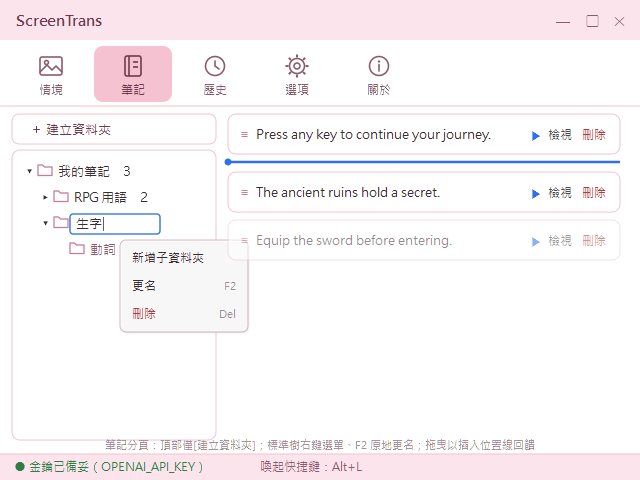
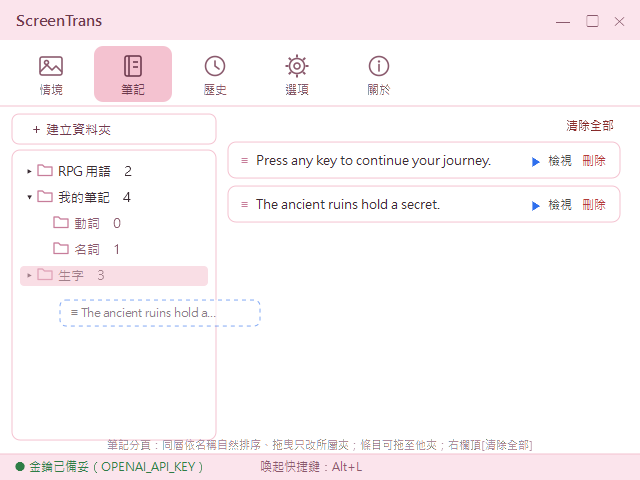
feat(present): 筆記樹依名稱自動排序（檔案總管式）並增筆記清除全部 (#43)
* docs(design): #42 筆記樹同層名稱自然排序（檔案總管式）/條目跨夾拖曳敘明/右欄清除全部（intTest#27）

* feat(present): 筆記樹同層名稱自然排序＋右欄清除全部；修拖曳劫持（按壓殘留誤移整夾）（版號 0.13.0）

* docs(design): #42 儲存/選型契約與 UI 對齊——資料夾恆名稱自然排序（無手動夾序）、ClearEntries（Codex 審查回修）

---------

Changed region(s): [[0.3438, 0.2188, 0.9688, 0.5312], [0.0312, 0.3438, 0.4062, 0.7188], [0.1562, 0.9062, 0.8438, 0.9375]]

diff --git a/sysScreenTrans/modPresent/NotesPage.xaml b/sysScreenTrans/modPresent/NotesPage.xaml
@@ -20,14 +20,22 @@
       </Border>
     </Grid>
 
-    <!-- 右：選取夾之條目 -->
+    <!-- 右：選取夾之條目（右欄頂[清除全部]，比照歷史分頁；Issue #42） -->
     <Grid Grid.Column="1" Margin="4,8,10,10">
-      <ScrollViewer VerticalScrollBarVisibility="Auto" Padding="8,0,4,0">
-        <StackPanel x:Name="EntryPanel"/>
-      </ScrollViewer>
-      <TextBlock x:Name="EmptyHint" Text="此資料夾尚無筆記。在結果或歷史按「加入我的筆記」即可收藏；左側資料夾可右鍵管理、拖曳移動。"
-                 Foreground="#9A6A82" FontSize="13" TextWrapping="Wrap" MaxWidth="320"
-                 TextAlignment="Center" HorizontalAlignment="Center" VerticalAlignment="Center" Visibility="Collapsed"/>
+      <Grid.RowDefinitions>
+        <RowDefinition Height="Auto"/>
+        <RowDefinition Height="*"/>
+      </Grid.RowDefinitions>
+      <Button x:Name="ClearEntriesBtn" Grid.Row="0" Content="清除全部" HorizontalAlignment="Right"
+              Foreground="#8A2B2B" Style="{StaticResource GhostButton}" Margin="0,0,0,6"/>
+      <Grid Grid.Row="1">
+        <ScrollViewer VerticalScrollBarVisibility="Auto" Padding="8,0,4,0">
+          <StackPanel x:Name="EntryPanel"/>
+        </ScrollViewer>
+        <TextBlock x:Name="EmptyHint" Text="此資料夾尚無筆記。在結果或歷史按「加入我的筆記」即可收藏；左側資料夾可右鍵管理、拖曳移動。"
+                   Foreground="#9A6A82" FontSize="13" TextWrapping="Wrap" MaxWidth="320"
+                   TextAlignment="Center" HorizontalAlignment="Center" VerticalAlignment="Center" Visibility="Collapsed"/>
+      </Grid>
     </Grid>
   </Grid>
 </UserControl>

diff --git a/sysScreenTrans/modQuery/NotesStore.cs b/sysScreenTrans/modQuery/NotesStore.cs
@@ -152,6 +152,61 @@ public sealed class NotesStore
         }
     }
 
+    /// <summary>
+    /// 檔案總管式**自然排序**比較（Issue #42，等效 `StrCmpLogicalW` 核心行為）：
+    /// 連續數字段依**數值**比較（「新資料夾 (2)」＜「新資料夾 (10)」），其餘字元依目前文化、不分大小寫。
+    /// </summary>
+    public static int NaturalCompare(string a, string b)
+    {
+        int i = 0, j = 0;
+        while (i < a.Length && j < b.Length)
+        {
+            if (char.IsAsciiDigit(a[i]) && char.IsAsciiDigit(b[j]))
+            {
+                int si = i, sj = j;
+                while (i < a.Length && char.IsAsciiDigit(a[i])) { i++; }
+                while (j < b.Length && char.IsAsciiDigit(b[j])) { j++; }
+                var na = a[si..i].TrimStart('0');
+                var nb = b[sj..j].TrimStart('0');
+                if (na.Length != nb.Length)
+                {
+                    return na.Length - nb.Length; // 位數多者數值大
+                }
+                var c = string.CompareOrdinal(na, nb);
+                if (c != 0)
+                {
+                    return c;
+                }
+            }
+            else
+            {
+                var c = string.Compare(a[i].ToString(), b[j].ToString(), StringComparison.CurrentCultureIgnoreCase);
+                if (c != 0)
+                {
+                    return c;
+                }
+                i++;
+                j++;
+            }
+        }
+        return (a.Length - i) - (b.Length - j); // 前綴相同者短在前
+    }
+
+    /// <summary>全樹**同層依名稱自然排序**（檔案總管慣例，Issue #42）：拖曳只改歸屬、順序一律由名稱決定。</summary>
+    public static void SortFolders(NotesData d) => SortSiblings(d.Folders);
+
+    private static void SortSiblings(List<NoteFolder> list)
+    {
+        list.Sort((x, y) => NaturalCompare(x.Name, y.Name));
+        foreach (var f in list)
+        {
+            SortSiblings(f.Folders);
+        }
+    }
+
+    /// <summary>清空指定資料夾之全部條目（不含子資料夾；右欄[清除全部]，Issue #42）。找不到夾即無為。</summary>
+    public static void ClearEntries(NotesData d, string folderId) => FindFolder(d, folderId)?.Entries.Clear();
+
     /// <summary>新增頂層資料夾。</summary>
     public static NoteFolder AddFolder(NotesData d, string name)
     {

diff --git a/sysScreenTrans.Tests/NotesStoreTests.cs b/sysScreenTrans.Tests/NotesStoreTests.cs
@@ -272,6 +272,55 @@ public class NotesStoreTests
     }
 
     [Fact]
+    public void NaturalCompare_DigitRuns_CompareNumerically()
+    {
+        Assert.True(NotesStore.NaturalCompare("新資料夾 (2)", "新資料夾 (10)") < 0);
+        Assert.True(NotesStore.NaturalCompare("a10b", "a2b") > 0);
+        Assert.Equal(0, NotesStore.NaturalCompare("f01", "f1")); // 前導零視同數值相等
+    }
+
+    [Fact]
+    public void NaturalCompare_Letters_CaseInsensitive_PrefixShorterFirst()
+    {
+        Assert.True(NotesStore.NaturalCompare("apple", "Banana") < 0);
+        Assert.True(NotesStore.NaturalCompare("ab", "abc") < 0);
+        Assert.Equal(0, NotesStore.NaturalCompare("Same", "same"));
+    }
+
+    [Fact]
+    public void SortFolders_SortsSiblingsRecursively_ByNaturalName()
+    {
+        var d = new NotesData();
+        var b = NotesStore.AddFolder(d, "B");
+        NotesStore.AddFolder(d, "A10");
+        NotesStore.AddFolder(d, "A2");
+        NotesStore.AddSubFolder(d, b.Id, "z");
+        NotesStore.AddSubFolder(d, b.Id, "k");
+
+        NotesStore.SortFolders(d);
+
+        Assert.Equal(new[] { "A2", "A10", "B" }, d.Folders.Select(f => f.Name));
+        Assert.Equal(new[] { "k", "z" }, b.Folders.Select(f => f.Name));
+    }
+
+    [Fact]
+    public void ClearEntries_OnlyTargetFolder_UnknownIdNoop()
+    {
+        var d = new NotesData();
+        var a = NotesStore.AddFolder(d, "A");
+        var b = NotesStore.AddFolder(d, "B");
+        NotesStore.AddTo(d, NoteEntry.From(new QueryResult("one", "w", "一"), DateTimeOffset.UtcNow)); // 落第一個頂層夾（A）
+        b.Entries.Insert(0, NoteEntry.From(new QueryResult("two", "t", "二"), DateTimeOffset.UtcNow));
+
+        NotesStore.ClearEntries(d, a.Id);
+        Assert.Empty(a.Entries);
+        Assert.Single(b.Entries);
+
+        NotesStore.ClearEntries(d, "no-such-id"); // 無為、不擲例外
+        Assert.Single(b.Entries);
+    }
+
+    [Fact]
     public void Load_LegacyFlatJson_UpgradesToTree_NoDataLoss()
     {
         // 舊平面 notes.json（NoteFolder 無 Folders 子夾鍵）

diff --git a/sysScreenTrans/modPresent/NotesPage.xaml.cs b/sysScreenTrans/modPresent/NotesPage.xaml.cs
@@ -82,7 +82,9 @@ public partial class NotesPage : UserControl
         _data = _store.LoadEnsured();
 
         NewFolderBtn.Click += (_, _) => CreateFolder(parent: null); // 一律建頂層；子資料夾走節點右鍵選單（檔案總管慣例）
+        ClearEntriesBtn.Click += (_, _) => OnClearEntries();
         FolderTree.SelectedItemChanged += OnFolderSelected;
+        FolderTree.PreviewMouseLeftButtonUp += (_, _) => _pressItem = null; // 放開即清，防殘留按壓被後續拖曳劫持
         FolderTree.KeyDown += OnTreeKeyDown;                // F2＝更名、Del＝刪除（檔案總管慣例）
         FolderTree.Drop += OnTreeBackgroundDrop;            // 拖到空白處 → 移到頂層
         FolderTree.DragOver += (_, e) => { e.Effects = DragDropEffects.Move; e.Handled = true; };
@@ -108,6 +110,7 @@ public partial class NotesPage : UserControl
 
     private void BuildTree()
     {
+        NotesStore.SortFolders(_data); // 同層一律依名稱自然排序（檔案總管慣例，Issue #42）
         var keepId = Selected?.Id;
         _dropHighlight = null;
         FolderTree.Items.Clear();
@@ -220,6 +223,7 @@ public partial class NotesPage : UserControl
         var f = Selected;
         bool any = f is not null && f.Entries.Count > 0;
         EmptyHint.Visibility = any ? Visibility.Collapsed : Visibility.Visible;
+        ClearEntriesBtn.IsEnabled = any;
         if (f is null)
         {
             return;
@@ -230,7 +234,29 @@ public partial class NotesPage : UserControl
         }
     }
 
-    private void Persist() { _store.Save(_data); BuildTree(); }
+    private void Persist()
+    {
+        NotesStore.SortFolders(_data); // 存檔順序與顯示一致（名稱序）
+        _store.Save(_data);
+        BuildTree();
+    }
+
+    /// <summary>右欄[清除全部]：清空選取夾內全部條目（確認對話載明夾名筆數；子夾不動）。</summary>
+    private void OnClearEntries()
+    {
+        var f = Selected;
+        if (f is null || f.Entries.Count == 0)
+        {
+            return;
+        }
+        if (MessageBox.Show($"清除資料夾「{f.Name}」內全部 {f.Entries.Count} 筆筆記？此動作無法復原（子資料夾不受影響）。",
+                "清除全部", MessageBoxButton.OKCancel, MessageBoxImage.Warning) != MessageBoxResult.OK)
+        {
+            return;
+        }
+        NotesStore.ClearEntries(_data, f.Id);
+        Persist();
+    }
 
     // ---- 資料夾操作（頂部[建立資料夾]＋右鍵選單／F2／Del，原地更名如檔案總管） ----
 
@@ -244,8 +270,7 @@ public partial class NotesPage : UserControl
         {
             return;
         }
-        _store.Save(_data);
-        BuildTree();
+        Persist(); // 依名稱歸位後入原地更名
         var item = FindItem(FolderTree.Items, created.Id);
         if (item is not null)
         {
@@ -274,7 +299,8 @@ public partial class NotesPage : UserControl
             if (save && !string.IsNullOrWhiteSpace(box.Text) && box.Text.Trim() != f.Name)
             {
                 NotesStore.RenameFolder(_data, f.Id, box.Text);
-                _store.Save(_data);
+                Persist(); // 更名後依名稱歸位
+                return;
             }
             BuildTree(); // 取消或未變更亦重建，還原一般節點頭
         }
@@ -350,7 +376,8 @@ public partial class NotesPage : UserControl
 
     private void OnItemMouseMove(object sender, MouseEventArgs e)
     {
-        if (_pressItem is null || e.LeftButton != MouseButtonState.Pressed)
+        // 僅由被按壓的節點本身啟動拖曳：防止殘留 _pressItem 在滑鼠（因其他拖曳）持鍵掃過樹時誤啟動資料夾拖曳
+        if (_pressItem is null || !ReferenceEquals(sender, _pressItem) || e.LeftButton != MouseButtonState.Pressed)
         {
             return;
         }
@@ -433,6 +460,7 @@ public partial class NotesPage : UserControl
             ToolTip = "拖曳排序／拖到左側資料夾移動",
         };
         handle.PreviewMouseLeftButtonDown += (_, ev) => { _entryDrag = entry; _entryStart = ev.GetPosition(null); };
+        handle.PreviewMouseLeftButtonUp += (_, _) => _entryDrag = null; // 放開即清（對稱防殘留）
         handle.PreviewMouseMove += OnEntryHandleMove;
         Grid.SetColumn(handle, 0);
         grid.Children.Add(handle);

diff --git a/CHANGELOG.md b/CHANGELOG.md
@@ -2,6 +2,25 @@
 
 版本依語意化版號（SemVer）。版號於 PR merge 當下釘選。
 
+## [0.13.0] - 2026-07-05
+
+Issue #42 增量：筆記樹**完全檔案總管化**（名稱自動排序）並新增筆記「清除全部」。
+
+### 新增
+- **筆記右欄「清除全部」**（比照歷史分頁位置/配色）：清除**選取資料夾**內全部條目（子資料夾不動），
+  確認對話載明夾名與筆數；空夾停用。
+
+### 修正
+- **資料夾樹同層一律依名稱自動排序**（檔案總管式**自然排序**：數字段依數值，「新資料夾 (2)」＜「新資料夾 (10)」）；
+  新增／更名／拖曳移動後即歸位；**拖曳語意＝只改所屬父夾**、同層無手動排序。
+- 條目**跨夾拖曳改歸屬**（拖至左樹任一資料夾）沿用既有能力、實測確認並納入 intTest#27。
+- **修拖曳劫持缺陷**（§5 實測發現）：點選過樹節點後按壓狀態未清，之後任何持鍵掃過樹的操作（如自右欄
+  拖條目入樹）會誤啟動「拖曳上次點過的資料夾」而把整夾移走；改**放開即清**＋**僅按壓節點本身可啟動拖曳**。
+
+### 備註
+- `NotesStore` 新增純函式 `NaturalCompare`／`SortFolders`／`ClearEntries`＋單元測試 4 則；notes.json 存序隨顯示
+  歸一為名稱序（單向）。design.md 筆記分頁列修訂、intTest#20 修訂＋#27 新增；mockup 重製；README 同步。
+
 ## [0.12.2] - 2026-07-05
 
 Issue #40 增量：歷史／選項／查詢結果頁版面依 **Windows 慣例與資訊層級**微調（實測回饋修正）。

diff --git a/docs/design.md b/docs/design.md
@@ -446,7 +446,7 @@ ADM -.->|"setWi自訂Usr啟動結束常駐"| SYS
   * **[modPresent模組] 呈現契約**（spec#4）：結果視窗 topmost；首次置中、之後記住使用者擺放的位置與大小（跨啟動、存 `%APPDATA%\ScreenTrans\ui-state.json`）；可拖曳標題移動、右下握把縮放；TTS（Windows 內建語音 SAPI，語音可於設定選擇）非同步播放、中英可各自播放與自動播放、重複觸發先停再播；`ESC`／關閉鈕／下一次查詢取代關閉（**失焦（Deactivated）不自動關閉**，切換視窗對照時結果保留）；**同時至多一個結果視窗——下一次查詢開始時，前一結果視窗由喚起流程關閉取代**。**逐字發音**：英文原文以逐字可點呈現，點選任一單字即以 `en-US` 單獨朗讀（重複觸發先停再播），整句播放鈕與自動播放並存；單字切分依空白分詞、剝除前後標點、保留原詞內部撇號／連字號與大小寫（切分為不依賴 UI 之純函式、可單元測試）。**收藏入口**：結果卡片**底部工具列**置「加入我的筆記」按鈕與「自動加入筆記」勾選（`AutoAddNote`，類比自動播放：勾選後查詢成功即去重加入並 toast）；**不再置歷史／我的筆記入口**（改由統一主視窗）。**invariant**：UI 執行緒不阻塞；自動加入筆記勾選時查詢成功即去重加入、未勾不加；關閉後無殘影視窗；切換視窗對照（失焦）時結果視窗保留、不自動關閉；同一時間至多一個結果視窗（下一次查詢取代前一個、無殘留堆疊）；變更設定（重建語音服務）時前一結果視窗一併關閉、不續用已釋放之語音服務；點選之單字即為朗讀之詞（前後標點不誤入、原詞不變形）、整句朗讀不受逐字互動影響；**結果視窗之關閉集中於單一守衛（`App.CloseResult`）——先解參考、不對已進入關閉序列（`IsClosing`）之視窗重複 `Close`**，共用滑鼠鍵情境下多路徑關閉不重入崩潰（Issue #32）。
   * **[modQuery模組] 查詢歷史儲存契約**（spec#6）：成功查詢之結果（時間戳＋[datIntf自訂查詢結果格式] 三欄）由 `HistoryStore` 追加寫入 `%APPDATA%\ScreenTrans\history.json`（與 `ui-state.json` 同資料夾、各自檔名）；保留筆數上限 `paramHistoryMax`（預設 200、非正值於讀取邊界套用預設），達上限時**環形截汰最舊**；讀取失敗（缺檔／格式毀損）退空清單、寫入失敗（權限等）靜默降級——皆不影響查詢主流程；金鑰不寫入歷史。序列化與截汰為不依賴 UI 之純函式、可單元測試。**invariant**：查詢成功即新增一筆且順序正確（新在前）；筆數恆不超過上限、超限截汰最舊；歷史檔毀損／不可寫時退空清單且查詢與呈現不中斷；歷史內容與金鑰隔離（掃描歷史檔無金鑰）。
   * **[modPresent模組] 查詢歷史檢視契約**（spec#6）：統一主視窗『歷史』分頁（**非結果視窗**、不受「至多一個結果視窗、下一次查詢取代」規則約束）；左側依**本地日期分組**、右側該日條目垂直堆疊（新在上、最舊在下）；單筆提供重聽（重用結果卡片之整句/逐字發音組件）、檢視（開詳情回原文／KK 音標／中譯三欄畫面）、刪除；頂部「清除全部」。入口：統一主視窗『歷史』分頁（自主視窗或系統匣切至該分頁）。結果卡片之三欄詳情與發音渲染**抽為共用組件**、供結果視窗與本視窗共用、不各寫一份。**invariant**：歷史視窗開關不影響查詢動線與結果視窗生命週期；刪除／清除即時反映於清單並落地 `history.json`；檢視詳情與重聽行為與即時結果一致（同一組件）；UI 執行緒不阻塞。
-  * **[modQuery模組] 我的筆記儲存契約**（spec#7）：`NotesStore` 以 `System.Text.Json` 讀寫 `%APPDATA%\ScreenTrans\notes.json`（與 `history.json`／`ui-state.json` 同資料夾、各自檔名）；結構＝**資料夾樹**（各含 `Id`／名稱／**子資料夾清單**／有序條目清單；多層），**向後相容**舊平面 `notes.json`（無子資料夾即單層）。**加入去重**：以英文原文正規化（去頭尾空白、大小寫折疊）為 key，同 key 已存在即不重複加入（呈現層回「已在筆記中」）；新加入預設置頂於預設資料夾。**資料夾 CRUD**：新增（含子夾）／更名／刪除（刪夾連其子孫與條目）；**節點移動**：資料夾或條目可拖曳移動至他夾（**防移入自身或其子孫、避免成環**）；**排序**：同夾條目可調整順序；分類與順序持久化。讀取失敗（缺檔／毀損）退空結構、寫入失敗靜默降級——皆不致命；金鑰不入筆記。去重／排序／資料夾操作為不依賴 UI 之純函式、可單元測試。筆記**不受** `paramHistoryMax`／歷史清除影響（獨立長期保存）。**invariant**：同一則不重複收藏、「已在筆記中」判定於結果／歷史兩入口一致；資料夾與條目順序調整後持久化、重啟沿用；毀損／不可寫退空且主流程不中斷；筆記與歷史資料分離、互不影響；樹之移動不成環（不移入自身或子孫）、舊平面 `notes.json` 升級單層樹不失資料；掃描 `notes.json` 無金鑰。
+  * **[modQuery模組] 我的筆記儲存契約**（spec#7）：`NotesStore` 以 `System.Text.Json` 讀寫 `%APPDATA%\ScreenTrans\notes.json`（與 `history.json`／`ui-state.json` 同資料夾、各自檔名）；結構＝**資料夾樹**（各含 `Id`／名稱／**子資料夾清單**／有序條目清單；多層），**向後相容**舊平面 `notes.json`（無子資料夾即單層）。**加入去重**：以英文原文正規化（去頭尾空白、大小寫折疊）為 key，同 key 已存在即不重複加入（呈現層回「已在筆記中」）；新加入預設置頂於預設資料夾。**資料夾 CRUD**：新增（含子夾）／更名／刪除（刪夾連其子孫與條目）；**節點移動**：資料夾或條目可拖曳移動至他夾（**防移入自身或其子孫、避免成環**）；**排序**：**資料夾同層一律依名稱自然排序**（`NaturalCompare`／`SortFolders`，Issue #42——移動只改歸屬、無手動夾序、存序隨顯示歸一為名稱序）；**同夾條目**可手動調整順序並持久化；**清除**：`ClearEntries` 清空指定夾條目（子夾不動）。讀取失敗（缺檔／毀損）退空結構、寫入失敗靜默降級——皆不致命；金鑰不入筆記。去重／排序／資料夾操作為不依賴 UI 之純函式、可單元測試。筆記**不受** `paramHistoryMax`／歷史清除影響（獨立長期保存）。**invariant**：同一則不重複收藏、「已在筆記中」判定於結果／歷史兩入口一致；**資料夾順序恆為名稱自然排序（不可手調）**、條目順序調整後持久化、重啟沿用；毀損／不可寫退空且主流程不中斷；筆記與歷史資料分離、互不影響；樹之移動不成環（不移入自身或子孫）、舊平面 `notes.json` 升級單層樹不失資料；掃描 `notes.json` 無金鑰。
   * **[modPresent模組] 我的筆記檢視契約**（spec#7）：統一主視窗『筆記』分頁（**非結果視窗**）：左側**多層資料夾樹**（標準 `TreeView`＋`HierarchicalDataTemplate`，新增子夾／更名／刪除、**拖曳移動節點如檔案總管、防自我或子孫巢狀**、選取切換右側）、右側該夾條目垂直堆疊（新在上，前端拖曳握把可上下排序、放開即持久化），單筆重聽（重用發音組件）、檢視（開三欄中英詳情、重用結果卡片共用組件）、刪除。**收藏入口**：結果視窗底部工具列「加入我的筆記」與「自動加入筆記」（`AutoAddNote`）、歷史條目「＋筆記」，共用**同一收藏動作來源**（不各寫一份），加入即以 `ToastNotifier`（右下角、不搶焦、淡入短暫顯示後淡出自動消失）回饋「已加入」／「已在筆記中」。**invariant**：筆記視窗開關不影響查詢與結果視窗生命週期；拖曳排序後順序立即落地 `notes.json`；檢視/重聽與即時結果一致（同一組件）；toast 不奪焦、不擋遊戲、自動消失；UI 執行緒不阻塞。
   * **[modQuery模組] 應用情境儲存契約**（spec#9）：`ContextStore` 讀寫 `contexts.json`（命名情境清單：id／名稱／描述／圖片檔名／使用中），圖片存 `%APPDATA%\ScreenTrans\contexts\{id}.png`；CRUD、**單一使用中**、`ActiveText()` 為查詢注入來源（沿 spec#8 之 `BuildPrompt`）；讀寫失敗退空／降級、金鑰不入情境；**相容遷移**舊 `paramContextHint`（清單空且 hint 非空→建預設情境設使用中）。CRUD／使用中／注入／遷移為不依賴 UI 之純函式、可單元測試。**invariant**：至多一則使用中；無使用中＝查詢回歸現行；`contexts.json` 毀損退空且不影響查詢；情境與金鑰隔離。
   * **[modQuery模組] 圖片情境解釋契約**（spec#9）：`QueryService.DescribeImageAsync` 以單次 vision 呼叫回一兩句繁中情境描述純文字（非三欄 schema），沿用金鑰／重試／降級；**僅於使用者為情境加入圖片時呼叫、非每次查詢**，查詢仍只注入文字（成本/延遲不變）。**invariant**：回純文字描述或明確錯誤降級；金鑰不隨圖入日誌。
@@ -502,7 +502,7 @@ ADM -.->|"setWi自訂Usr啟動結束常駐"| SYS
 > 各 module 之 techItem 具體選型／版本（承 ＜II.C.(A)＞ techStack、落地 ＜I.C.(A)＞ techApp 強制項）。
 
 * [modCapture模組]：.NET 8 WPF＋Win32 P/Invoke（`RegisterHotKey`／`UnregisterHotKey`／`GetDpiForMonitor`；滑鼠鍵綁定另用 `SetWindowsHookEx(WH_MOUSE_LL)`／`UnhookWindowsHookEx`／`CallNextHookEx`）＋`System.Drawing.Graphics.CopyFromScreen`（截圖）＋`Hardcodet.NotifyIcon.Wpf`（或 WinForms `NotifyIcon`，系統匣）。喚起快捷鍵綁定以可序列化 model（修飾鍵集合＋鍵盤主鍵 或 滑鼠鍵）存 `paramHotkey`，[HotKeyService] 依綁定型別選 `RegisterHotKey`／`WH_MOUSE_LL` 後端、統一 `HotKeyPressed` 事件。
-* [modQuery模組]：`HttpClient`（內建）＋`System.Text.Json`（解析與 schema 驗證）；OpenAI chat completions vision（structured output），模型預設 `gpt-4o-mini`；暫時性錯誤以自寫指數退避重試迴圈（不引入第三方套件），送出單次請求與退避延遲皆接縫化以供單元測試注入。另新增 `HistoryStore`：`System.Text.Json` 讀寫 `history.json`（仿 `UiStateStore` 存 `%APPDATA%\ScreenTrans\`）、成功查詢後追加、依 `paramHistoryMax` 環形截汰最舊、讀寫失敗退空清單／靜默降級；序列化與截汰為純函式、抽可測。另新增 `NotesStore`：`System.Text.Json` 讀寫 `notes.json`（資料夾＋條目＋順序），加入去重（英文原文正規化為 key）、資料夾 CRUD、同夾/跨夾排序移動皆為純函式抽可測、讀寫失敗退空／靜默降級。`BuildPayload` 之 text prompt 組裝抽為純函式並接受 `paramContextHint`（`AppConfig.Context`）：非空時附加參考情境片段、空時回原提示，供單元測試涵蓋。另新增 `ContextStore`（`contexts.json`：命名情境清單、單一使用中、`ActiveText` 注入來源、舊 `paramContextHint` 相容遷移；純函式抽可測）與 `QueryService.DescribeImageAsync`（單次 vision 回純文字情境描述、`ExtractContent` 解析；`SendOnceAsync` 泛化收 payload 供三欄查詢與圖片解釋共用）。
+* [modQuery模組]：`HttpClient`（內建）＋`System.Text.Json`（解析與 schema 驗證）；OpenAI chat completions vision（structured output），模型預設 `gpt-4o-mini`；暫時性錯誤以自寫指數退避重試迴圈（不引入第三方套件），送出單次請求與退避延遲皆接縫化以供單元測試注入。另新增 `HistoryStore`：`System.Text.Json` 讀寫 `history.json`（仿 `UiStateStore` 存 `%APPDATA%\ScreenTrans\`）、成功查詢後追加、依 `paramHistoryMax` 環形截汰最舊、讀寫失敗退空清單／靜默降級；序列化與截汰為純函式、抽可測。另新增 `NotesStore`：`System.Text.Json` 讀寫 `notes.json`（資料夾＋**條目順序**；**資料夾同層順序不入手動語意——一律 `NaturalCompare`/`SortFolders` 名稱自然排序**，Issue #42），加入去重（英文原文正規化為 key）、資料夾 CRUD、條目同夾排序/跨夾移動、`ClearEntries` 皆為純函式抽可測、讀寫失敗退空／靜默降級。`BuildPayload` 之 text prompt 組裝抽為純函式並接受 `paramContextHint`（`AppConfig.Context`）：非空時附加參考情境片段、空時回原提示，供單元測試涵蓋。另新增 `ContextStore`（`contexts.json`：命名情境清單、單一使用中、`ActiveText` 注入來源、舊 `paramContextHint` 相容遷移；純函式抽可測）與 `QueryService.DescribeImageAsync`（單次 vision 回純文字情境描述、`ExtractContent` 解析；`SendOnceAsync` 泛化收 payload 供三欄查詢與圖片解釋共用）。
 * [modPresent模組]：WPF 視窗＋**語音合成**＝[techItem語音合成]：`System.Speech.Synthesis`（SAPI，離線、免金鑰、零外部依賴）朗讀，中英佇列循序播放；語音以 `SpeechSynthesizer.GetInstalledVoices()` 列舉、由設定選定並存 `paramTtsVoice`（`SelectVoice`）；語音缺失時明確提示、不當機。另新增 `HistoryWindow`（WPF 視窗：左日期分組清單、右條目堆疊；單筆重聽／檢視／刪除、頂部清除全部），重用抽出之三欄詳情/發音組件；結果視窗新增「展示歷史紀錄」入口按鈕。再新增 `ToastNotifier`（右下角無邊框 topmost 小視窗、`Storyboard` 淡入淡出、不搶焦、逾時自動關閉）；結果視窗與歷史條目新增「加入我的筆記」入口，共用同一收藏動作來源。本增量整合為 **`MainWindow`（Office 式分頁殼）** ＋ `NotesPage`／`HistoryPage`／`OptionsPage`／`AboutPage`（`UserControl`）取代各獨立維運/檢視視窗（`DockWindow`／`HistoryWindow`／`NotesWindow`／`SettingsWindow`）；`MainWindow` 為標準視窗（`ShowInTaskbar`、最小化收合、關閉＝收合非結束、工作列還原）。筆記分頁以標準 `TreeView`＋`HierarchicalDataTemplate` 承載**多層樹**、以 `DragDrop` 移動節點（防成環）。結果視窗改**底部工具列**（「加入我的筆記」＋「自動加入筆記」勾選，靜態 `AutoAddNote`）、移除歷史/筆記入口按鈕。淺粉底＋`assets/icon.png`（小女孩 logo）背景以**共用樣式資源**（`App.xaml` 資源字典）套用於主視窗與各分頁。再新增 `ContextPage`（主視窗「情境」分頁：命名情境清單＋縮圖＋編輯區；`Clipboard.GetImage` 貼圖、`OpenFileDialog` 上傳、「以圖片自動解釋」呼叫 `DescribeImageAsync`、設為使用中）。
 
 ### (B) 關鍵參數
@@ -528,7 +528,7 @@ ADM -.->|"setWi自訂Usr啟動結束常駐"| SYS
 | 選區遮罩頁 | 遊戲查詢／teamSop#1.1 | capture | 全螢幕 45% 變暗遮罩＋十字游標＋accent 橡皮筋選框（差顯反白）＋頂部一行提示（`拖曳框選要查詢的文字，ESC 取消`） | #1.1.1 | 桌面 overlay（topmost） |
 | 查詢結果頁 | 遊戲查詢／teamSop#1.2·1.3·4.1 | query＋present | 淺粉底圓角大字卡片（可縮放、記住位置大小；預設約 560×380）：查詢中＝`辨識翻譯中…`；完成＝三區直排（原文→KK 音標→中譯，**不加欄目標示**、以字級/色彩/字體分層一望即知），英文原文逐字可點（點詞即單獨發音、游標呈可點狀），英文組與中文組各附獨立整句播放鈕與「自動播放」勾選；**縮放握把於視窗右下角**（Windows 慣例、SizeNWSE）；**卡片底部工具列**置「加入我的筆記」按鈕與「自動加入筆記」勾選（類比自動播放，勾選後查詢成功即去重加入並 toast）；**不再置歷史／我的筆記入口**（改由統一主視窗）；失敗＝錯誤訊息＋下一步指引 | #1.2.1·#1.3.1·#4.1.1 | 桌面浮動視窗（topmost、可拖曳縮放） |
 | 統一主視窗（Office 式殼） | 工具維保／teamSop#2.2 | 維運 | **標準工作列視窗**（`ShowInTaskbar`、可最小化收合、關閉（✕）＝收合非結束、點工作列／Alt+Tab 還原）：**頂部功能列分頁**（每個分頁鈕採**圖示在上、文字在下**，序：🖼情境／📒筆記／🕘歷史／⚙選項／ℹ關於；**Segoe MDL2 Assets 字圖**——情境=Picture 風景、筆記=QuickNote、歷史=History、選項=Setting 齒輪、關於=Info）＋下方對應功能頁；**內容區不重複視窗標題**（OS 標題列已有）；**底部狀態列**（`StatusBar`：金鑰狀態＋當前快捷鍵）；淺粉底（承結果卡片色）＋小女孩 logo 背景浮水印；預設開啟分頁維持「筆記」。取代原各獨立維運/檢視視窗，為第一線常顯主控入口 | #2.2.1 | 桌面視窗（工作列按鈕、分頁殼） |
-| 筆記分頁 | 遊戲查詢／teamSop#4.2 | present | 主視窗『筆記』分頁：左側**多層資料夾樹如檔案總管**——頂部工具列僅**[建立資料夾]**一鈕（建立即進原地更名）；標準樹節點＋**右鍵選單**（新增子資料夾／更名〔`F2`，**原地編輯**：Enter 確認、Esc 取消〕／刪除〔`Del`，確認對話〕）；**拖曳移動節點**（滑過目標夾**高亮**、防自我或子孫巢狀）。右側選取夾之條目（新在上、可拖曳排序，拖曳中顯示**插入位置指示線**），每筆 `▶ 播音`／`檢視`（回三欄中英）／`刪除`；收藏由結果頁「加入我的筆記」寫入、toast 回饋 | #4.1.1·#4.2.1 | 主視窗分頁 |
+| 筆記分頁 | 遊戲查詢／teamSop#4.2 | present | 主視窗『筆記』分頁：左側**多層資料夾樹如檔案總管**——頂部工具列僅**[建立資料夾]**一鈕（建立即進原地更名）；標準樹節點＋**右鍵選單**（新增子資料夾／更名〔`F2`，**原地編輯**：Enter 確認、Esc 取消〕／刪除〔`Del`，確認對話〕）；**同層一律依名稱自動排序**（檔案總管式**自然排序**：數字段依數值，「新資料夾 (2)」＜「新資料夾 (10)」；新增/更名/移動後即歸位）；**拖曳移動節點＝只改所屬父夾**（滑過目標夾**高亮**、防自我或子孫巢狀、同層無手動排序）。右側選取夾之條目（新在上、可拖曳排序〔顯示**插入位置指示線**〕、**亦可拖至左樹任一資料夾改歸屬**），右欄頂**[清除全部]**（清除選取夾內全部條目、確認對話載明夾名筆數、空夾停用），每筆 `▶ 播音`／`檢視`（回三欄中英）／`刪除`；收藏由結果頁「加入我的筆記」寫入、toast 回饋 | #4.1.1·#4.2.1 | 主視窗分頁 |
 | 歷史分頁 | 遊戲查詢／teamSop#3.1·3.2·4.1 | present | 主視窗『歷史』分頁：左側依**日期分組**（**頂端對齊、上不留空**）、右側該日條目（新在上、最舊在下，**緊湊列高**——單行原文＋時刻併列），每筆前端「＋筆記」（去重＋toast）、尾端 `▶ 播音`／`檢視`（回三欄中英）／`刪除`；「清除全部」置**右欄頂**；空清單提示 | #3.1.1·#3.2.1·#4.1.1 | 主視窗分頁 |
 | 情境分頁 | 遊戲查詢／teamSop#5.1·5.2 | query（設定） | 主視窗『情境』分頁：左側命名情境清單（名稱＋縮圖＋使用中標記）、右側編輯（名稱、描述多行、**貼上剪貼簿圖片／上傳檔**、「以圖片自動解釋」→vision 產描述、設為使用中、刪除、儲存）；查詢注入使用中情境描述 | #5.1.1·#5.2.1 | 主視窗分頁 |
 | 選項分頁 | 工具維保／teamSop#2.2 | 維運 | 主視窗『選項』分頁（即設定、版面美化），區塊序依使用頻率與關聯：①**喚起快捷鍵**〔顯示當前綁定＋「變更」監聽鍵鼠、`Esc` 取消〕②**AI 辨識翻譯（OpenAI）**〔API 金鑰（寫使用者環境變數、不落地）＋查詢模型，同屬 AI 辨識〕③**朗讀語音**〔Windows 已安裝、含「測試發音」鈕〕；頁尾僅「儲存」；分組卡片、淺粉底 | #2.2.1 | 主視窗分頁 |
@@ -570,7 +570,7 @@ ADM -.->|"setWi自訂Usr啟動結束常駐"| SYS
 
 ### (A) 規格要求
 
-> 模組層品管測試：遞增整合（intTest）。另模組層單元測試（query 解析、選區座標換算、present 段英文單字切分純函式〔標點剝除／撇號連字號與大小寫保留／多空白邊界〕、筆記資料夾預設名唯一化 `NextNewFolderName` 等，涵蓋度目標 ≥80%）與介面測試（datIntf 契約一致）全文歸 code。
+> 模組層品管測試：遞增整合（intTest）。另模組層單元測試（query 解析、選區座標換算、present 段英文單字切分純函式〔標點剝除／撇號連字號與大小寫保留／多空白邊界〕、筆記資料夾預設名唯一化 `NextNewFolderName`、自然排序 `NaturalCompare`/`SortFolders`、清除 `ClearEntries` 等，涵蓋度目標 ≥80%）與介面測試（datIntf 契約一致）全文歸 code。
 
 **遞增整合測試（intTest）**：
 
@@ -595,13 +595,14 @@ ADM -.->|"setWi自訂Usr啟動結束常駐"| SYS
 | 17 | runWi自訂Usr管理我的筆記（檢視/重聽/刪除） | 15 | 筆記單筆「檢視」→ 開三欄中英詳情（重用結果卡片組件）；「播音」→ Windows 語音（離線，測試攔截）；「刪除」→ 自該夾與 `notes.json` 移除、其餘不動；筆記不受查詢歷史清除影響 |
 | 18 | runWi自訂Sys辨識翻譯選區（情境提示） | 05 | 設定應用情境提示（如「中世紀奇幻 RPG」）並存 → 查詢送出之 text prompt 含該情境（「參考、非指令」語氣）且仍要求三欄 JSON；清空情境 → prompt 等同原固定提示；三欄 structured schema 不變（`BuildPrompt` 純函式測空／非空涵蓋）|
 | 19 | runWi自訂Usr熱鍵喚起框選（重入安全） | 03 | 滑鼠鍵綁定且前景程式共用該鍵 → 連續／交錯喚起與關閉不崩潰（不再出現「while a Window is closing」）；結果視窗關閉走單一守衛、不重複關閉關閉中視窗；`FireGate` 連續命中僅派工一次、`Release` 後可再觸發（純函式單元測試涵蓋）|
-| 20 | runWi自訂Usr管理我的筆記（多層樹） | 15 | 主視窗筆記分頁 → 新增子資料夾、拖曳移動節點（資料夾／條目）至他夾如檔案總管；移入自身或其子孫被阻止（不成環）；舊平面 `notes.json` 開啟升級為單層樹、不失資料（純函式測涵蓋移動防環與升級）|
+| 20 | runWi自訂Usr管理我的筆記（多層樹） | 15 | 主視窗筆記分頁 → 新增子資料夾、拖曳移動節點（資料夾／條目）至他夾如檔案總管（**拖曳只改所屬父夾**）；移入自身或其子孫被阻止（不成環）；舊平面 `notes.json` 開啟升級為單層樹、不失資料（純函式測涵蓋移動防環與升級）|
 | 21 | runWi自訂Usr查看聆聽結果（自動加入筆記） | 07 | 勾選結果視窗底部「自動加入筆記」→ 下一次查詢成功即去重加入我的筆記並 toast、未勾不加；「加入我的筆記」置於底部工具列；結果視窗不再有歷史／我的筆記入口按鈕（改由統一主視窗）|
 | 22 | runWi自訂Usr管理應用情境 | 05 | 開情境分頁 → 新增情境、輸入描述、設為使用中；查詢送出之 prompt 含使用中情境描述（沿 spec#8 注入）、無使用中則等同原提示；改選別則→注入隨之改變；刪情境（連圖）；重啟後留存；舊 `paramContextHint` 相容遷移為預設情境（CRUD/使用中/遷移純函式測涵蓋）|
 | 23 | runWi自訂Usr管理應用情境（圖片自動解釋） | 22 | 於情境貼上剪貼簿圖片或上傳畫面檔 → 呼叫 vision `DescribeImageAsync` 回情境描述並填入供補充（解析由 `ExtractContent` 純函式測涵蓋）；圖片存本機 `contexts\`、刪情境一併刪圖；查詢仍只注入文字、不送圖 |
 | 24 | setWi自訂Usr啟動結束常駐（主視窗 Windows 慣例） | 12 | 主視窗內容區無重複「ScreenTrans」標題（僅 OS 標題列有）；金鑰／快捷鍵狀態顯示於**底部狀態列**；分頁序＝情境／筆記／歷史／選項／關於（情境最左）；分頁圖示為 Segoe MDL2 Assets 字圖（情境=風景、選項=齒輪）；預設開啟分頁仍為筆記、tray 各入口行為不變 |
 | 25 | runWi自訂Usr管理我的筆記（拖曳回饋） | 20 | 右側條目拖曳中 → 於預定落點顯示**插入位置指示線**、放開即落於指示位置；拖曳資料夾／條目滑過左側目標夾 → 該節點**高亮**；放開或離開 → 指示線與高亮即清除、無殘影 |
 | 26 | runWi自訂Usr查看聆聽結果（版面慣例） | 07 | 查詢結果卡片三區**無**「原文/音標/中譯」欄目標示、內容以字級/色彩/字體分層一望即知；縮放握把位於**視窗右下角**（底部工具列右角、SizeNWSE）且不遮「加入我的筆記／自動加入筆記」；選項分頁區塊序＝快捷鍵→AI 辨識翻譯（金鑰＋模型）→朗讀語音（含測試發音）、頁尾僅「儲存」；歷史分頁日期欄頂端對齊、「清除全部」在右欄頂 |
+| 27 | runWi自訂Usr管理我的筆記（名稱排序/清除全部） | 20 | 筆記樹同層一律依名稱**自然排序**（「新資料夾 (2)」＜「新資料夾 (10)」；新增/更名/拖曳移動後即歸位、拖曳不改同層順序）；條目拖至左樹他夾 → 歸屬改變、順序插頂；右欄頂[清除全部] → 確認對話載明夾名筆數、確認後清空**該夾**條目（子夾與他夾不動）、空夾時停用（排序/清除純函式測涵蓋）|
 
 ### (B) 效益指標
 

diff --git a/README.md b/README.md
@@ -47,7 +47,7 @@
 | 查詢歷史 | 主視窗「歷史」分頁：左側選日期 → 右側該日紀錄（新在上）；每筆可 `＋筆記`、`▶ 播音`、`檢視`、`刪除`；頂部「清除全部」 |
 | 加入我的筆記 | 結果視窗**底部**「＋ 加入我的筆記」，或歷史條目「＋筆記」→ 右下角閃示「已加入」（已收藏過則提示「已在筆記中」） |
 | 自動加入筆記 | 勾選結果視窗底部「自動加入筆記」→ 之後每次查詢成功自動去重收藏（類比自動播放） |
-| 我的筆記 | 主視窗「筆記」分頁：左側**多層資料夾樹如檔案總管**——頂部「建立資料夾」、節點**右鍵選單**（新增子資料夾／更名〔`F2` 原地編輯〕／刪除〔`Del`〕）、拖曳移動（目標夾高亮）；右側該夾條目可拖曳排序（顯示插入位置線）；每筆可 `▶ 播音`、`檢視`、`刪除` |
+| 我的筆記 | 主視窗「筆記」分頁：左側**多層資料夾樹如檔案總管**——頂部「建立資料夾」、節點**右鍵選單**（新增子資料夾／更名〔`F2` 原地編輯〕／刪除〔`Del`〕）、**同層自動依名稱排序**、拖曳只改所屬資料夾（目標夾高亮）；右側該夾條目可拖曳排序（顯示插入位置線）**或拖到左側資料夾改歸屬**，右上「清除全部」清空該夾；每筆可 `▶ 播音`、`檢視`、`刪除` |
 | 應用情境 | 主視窗「情境」分頁：新增命名情境（輸入文字，或貼上／上傳畫面按「🔎 以圖片自動解釋」）、「設為使用中」；查詢時注入該情境描述；未選任何情境＝維持預設翻譯 |
 | 開啟設定 | 主視窗「選項」分頁，或系統匣圖示右鍵 →「選項」 |
 | 查看常駐狀態 | 主視窗**底部狀態列**顯示金鑰狀態與當前快捷鍵；系統匣圖示右鍵亦可看狀態 |